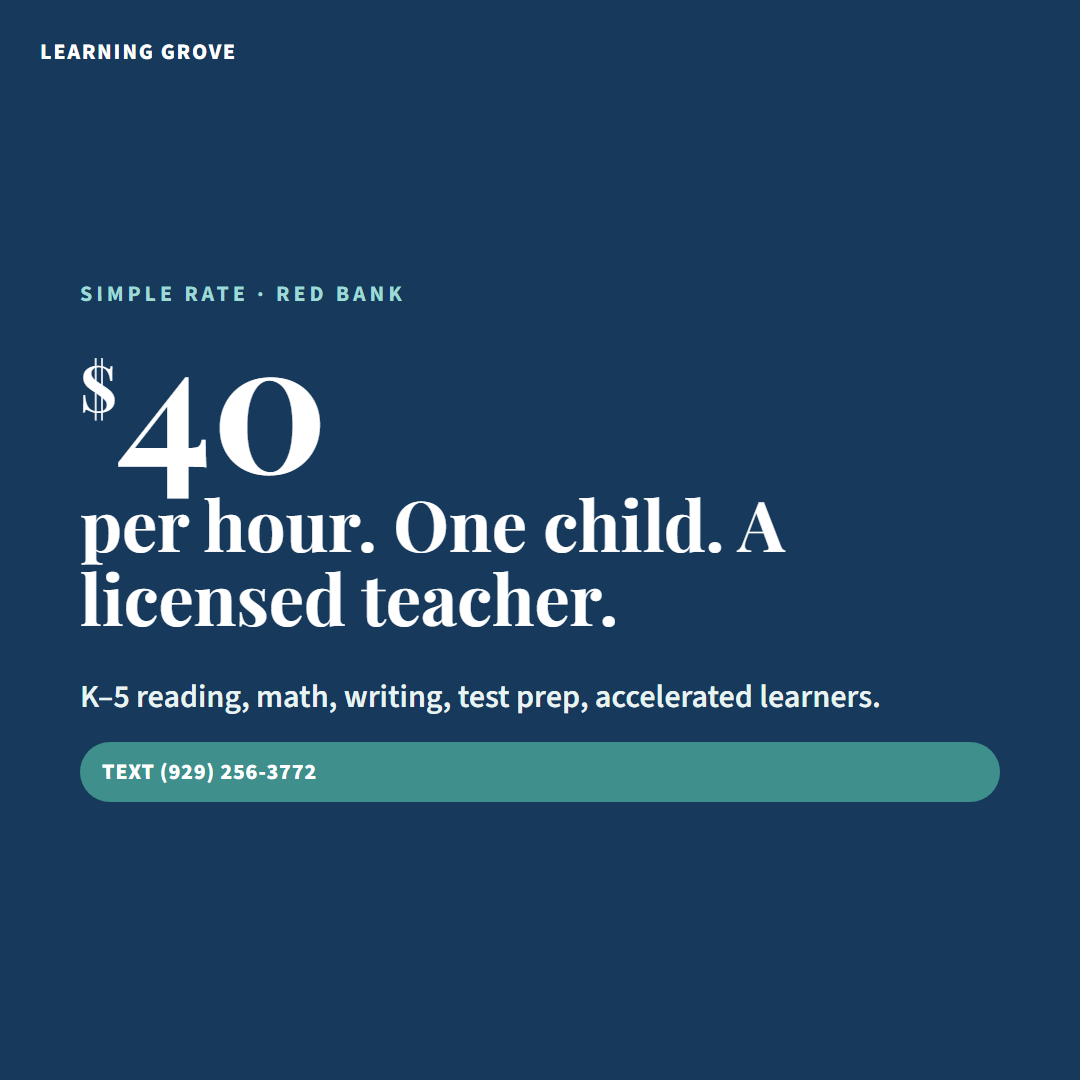
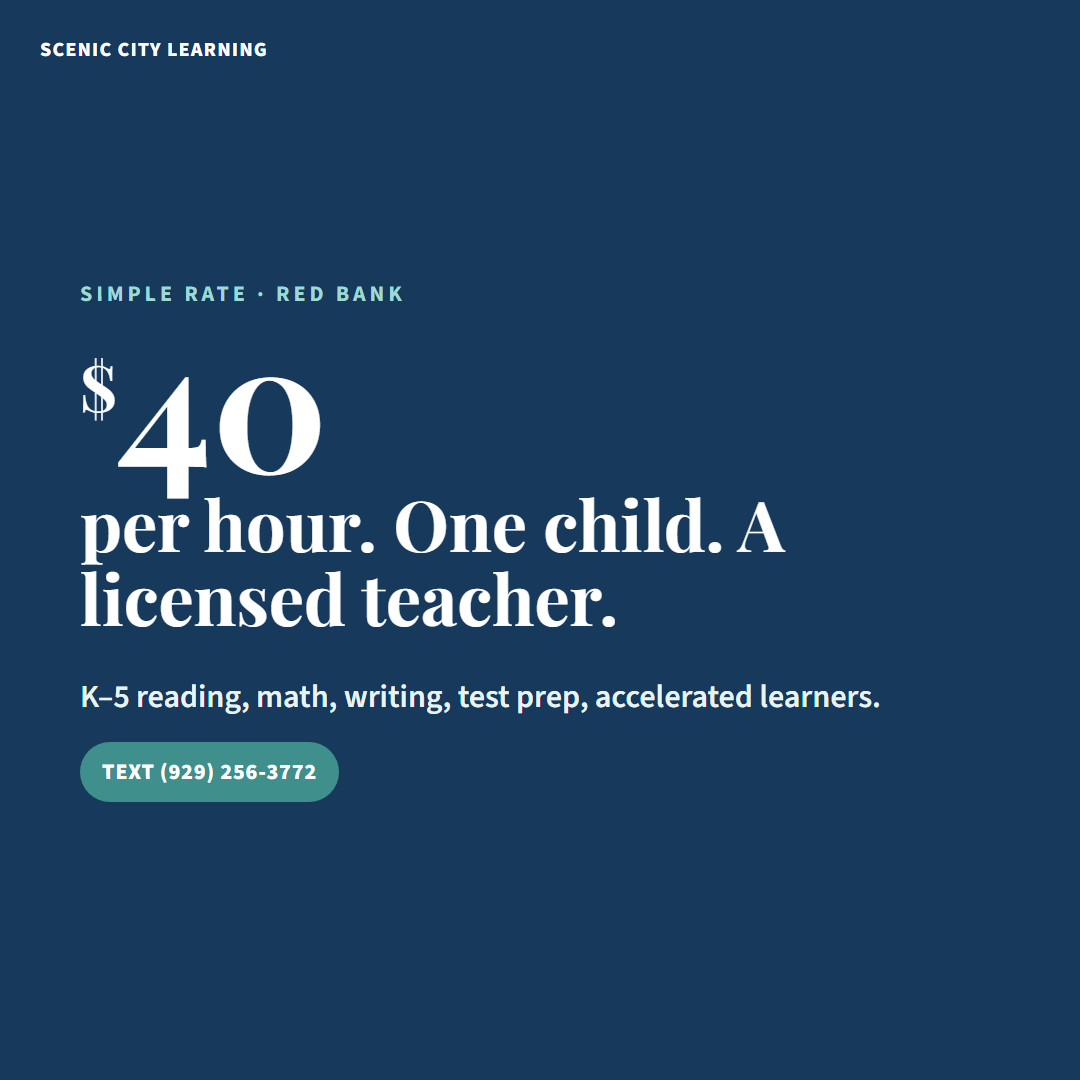
Refresh Facebook Page kit and ads for Scenic City Learning.
Recrop the cover so Mandi's face sits in Facebook's mobile safe area. Replace Learning Grove on ad images. Tighten Page copy, Messenger greeting, and ad headlines to Facebook character limits.

Changed region(s): [[0.3056, 0.6722, 0.9472, 0.7639], [0.0306, 0.0306, 0.2444, 0.0611]]

diff --git a/facebook/index.html b/facebook/index.html
@@ -60,21 +60,22 @@
       <div class="preview-body">
         <img class="avatar" src="profile-photo.jpg" alt="Scenic City Learning profile photo" />
         <p class="pagename">Scenic City Learning</p>
-        <p class="cat">Tutor · Education · Red Bank, Tennessee</p>
-        <button class="cta" type="button">Call now</button>
-        <p>K–5 learning coaching in Red Bank. Reading, math, writing, homework, test prep, and accelerated students. $40/hour. Sessions at Mandi’s home.</p>
+        <p class="cat">Private tutor · Red Bank, Tennessee</p>
+        <button class="cta" type="button">Send message</button>
+        <p>K–5 coaching in Red Bank with Mandi Thurmond, M.Ed. Reading, math, writing, homework, test prep, and accelerated students. $40/hour at Mandi’s house.</p>
       </div>
     </div>
 
     <h2>1. Create the Page</h2>
     <ol>
-      <li>Open <a href="https://www.facebook.com/pages/create" target="_blank" rel="noopener">facebook.com/pages/create</a> while signed in as Mandi.</li>
-      <li>Choose <strong>Business or brand</strong> (or “Page”).</li>
-      <li>Paste the name, category, and bio below.</li>
-      <li>Upload <strong>profile-photo.jpg</strong> and <strong>cover-photo.jpg</strong> from this folder.</li>
-      <li>Add phone, email, website, and city. Turn on messaging.</li>
-      <li>Set the action button to <strong>Call now</strong> or <strong>Send message</strong>.</li>
-      <li>Publish the first three posts from the list at the bottom.</li>
+      <li>Open <a href="https://www.facebook.com/pages/create" target="_blank" rel="noopener">facebook.com/pages/create</a> while signed in as Mandi (not Davis).</li>
+      <li>Choose <strong>Business or brand</strong>.</li>
+      <li>Paste the Page name, then category <strong>Private tutor</strong> (search “tutor” if you don’t see it).</li>
+      <li>Paste the short bio.</li>
+      <li>Upload <strong>profile-photo.jpg</strong> (circle) and <strong>cover-photo.jpg</strong> (banner).</li>
+      <li>Add phone, email, website, and city from the contact block. Turn on messaging.</li>
+      <li>Action button: <strong>Send message</strong> (this is what the ads use). Add Call as a second action if Facebook offers it.</li>
+      <li>Paste the Messenger greeting. Publish the first three posts. Pin post 1.</li>
     </ol>
 
     <h2>Page name <button class="copy" data-copy="name">Copy</button></h2>
@@ -85,12 +86,11 @@
     <p>This becomes facebook.com/ScenicCityLearning if it is available. Fallbacks: ScenicCityK5 or ScenicCityTN.</p>
 
     <h2>Category</h2>
-    <div class="block">Tutor
-Education
-Private Tutor</div>
+    <div class="block" id="cat">Private tutor</div>
+    <p>If Facebook asks for more: Education, Tutor.</p>
 
-    <h2>Short bio (About / intro) <button class="copy" data-copy="bio">Copy</button></h2>
-    <div class="block" id="bio">Scenic City Learning — K–5 coaching in Red Bank with Mandi Thurmond, M.Ed. Reading, math, writing, homework, test prep, and work with accelerated students. $40/hour. Sessions at Mandi’s home.</div>
+    <h2>Short bio (About / intro — stays under Facebook’s 255-character limit) <button class="copy" data-copy="bio">Copy</button></h2>
+    <div class="block" id="bio">K–5 coaching in Red Bank with Mandi Thurmond, M.Ed. Licensed teacher, 18 years. Reading, math, writing, homework, test prep, and accelerated students. $40/hour at my house.</div>
 
     <h2>Long description <button class="copy" data-copy="long">Copy</button></h2>
     <div class="block" id="long">Scenic City Learning is one-on-one K–5 learning coaching in Red Bank and greater Chattanooga.
@@ -111,19 +111,23 @@ $40 per hour. Personalized support. Lifelong confidence.
 
 Every child can learn. My job is to help them believe it.
 
-sceniccitylearning.com
+https://sceniccitylearning.com
 Call or text (929) 256-3772 (Google Voice)
 orangemandimack@yahoo.com</div>
 
     <h2>Contact details to enter</h2>
-    <div class="block">Phone: (929) 256-3772
+    <div class="block" id="contact">Phone: (929) 256-3772
 Email: orangemandimack@yahoo.com
 Website: https://sceniccitylearning.com
 City: Red Bank, Tennessee
-Service area: Red Bank, Chattanooga, Hamilton County
-Hours: By appointment
+Service area: Red Bank and greater Chattanooga
+Hours: Evenings and weekends by appointment
 Price range: $
-Action button: Call now</div>
+Action button: Send message</div>
+
+    <h2>Messenger greeting <button class="copy" data-copy="greet">Copy</button></h2>
+    <div class="block" id="greet">Hi — this is Mandi at Scenic City Learning. Tell me your child’s grade and what they need help with. I’ll reply about a $40 hour at my house in Red Bank.</div>
+    <p>Turn on messaging. Do not publish the street address on the Page.</p>
 
     <h2>First posts — paste these in order</h2>
     <div class="posts">
@@ -131,28 +135,26 @@ Action button: Call now</div>
         <h3>Post 1 — we’re open <button class="copy" data-copy="p1">Copy</button></h3>
         <div class="block" id="p1">Scenic City Learning is open.
 
-Helping students learn. Grow. Succeed.
-
-I’m Mandi Thurmond, M.Ed. — a licensed teacher with 18 years in the classroom — and I’m coaching K–5 students one-on-one here in the Red Bank / Chattanooga area.
+I’m Mandi Thurmond, M.Ed. — a licensed teacher with 18 years in elementary classrooms — and I’m coaching K–5 students one-on-one in Red Bank.
 
 Reading • Math • Writing • Homework help • Test prep • Accelerated students
-$40/hour
-Sessions at my home in Red Bank
+$40/hour at my house (address when we book)
 
 Every child can learn. My job is to help them believe it.
 
-sceniccitylearning.com
-Call or text (929) 256-3772 to book a session.</div>
+https://sceniccitylearning.com
+Call or text (929) 256-3772 to book.</div>
       </article>
       <article class="post">
         <h3>Post 2 — why one-on-one <button class="copy" data-copy="p2">Copy</button></h3>
         <div class="block" id="p2">A struggling reader doesn’t need more worksheets. They need a plan that fits them.
 
-That’s what one-on-one learning coaching is: a licensed teacher sitting beside your child, noticing what clicks, and building from there.
+That’s one-on-one coaching: a licensed teacher beside your child, noticing what clicks, and building from there.
 
-I work with grades K–5 on reading, math, writing, study skills, and test prep.
+I work with grades K–5 on reading, math, writing, homework, test prep — and stretch work if they’re already ahead.
 
-If you’ve been wondering whether extra support would help, send a message. First conversation is easy.</div>
+Send a message or text (929) 256-3772. First conversation is easy.
+https://sceniccitylearning.com</div>
       </article>
       <article class="post">
         <h3>Post 3 — about Scenic City Learning <button class="copy" data-copy="p3">Copy</button></h3>
@@ -168,7 +170,7 @@ Intervention &amp; tutoring teacher
 I’ve spent my career helping elementary students find their footing — and their confidence. Now that work lives at Scenic City Learning, serving families in Red Bank and greater Chattanooga.
 
 $40/hour · grades K–5
-sceniccitylearning.com
+https://sceniccitylearning.com
 (929) 256-3772</div>
       </article>
       <article class="post">
@@ -179,7 +181,7 @@ After a page, ask “What just happened?” — not a quiz, just a conversation.
 
 If retelling feels hard, that’s useful information, not a verdict. Fluency and comprehension are skills we can coach.
 
-K–5 reading support · $40/hour · sceniccitylearning.com</div>
+K–5 reading support · $40/hour · https://sceniccitylearning.com</div>
       </article>
       <article class="post">
         <h3>Post 5 — how to book <button class="copy" data-copy="p5">Copy</button></h3>
@@ -190,7 +192,7 @@ K–5 reading support · $40/hour · sceniccitylearning.com</div>
 3. Come to my house in Red Bank (address when we book)
 4. We begin
 
-sceniccitylearning.com
+https://sceniccitylearning.com
 orangemandimack@yahoo.com
 Red Bank &amp; greater Chattanooga
 $40 per hour</div>

diff --git a/ads/facebook-ads.html b/ads/facebook-ads.html
@@ -95,9 +95,10 @@ I’m Mandi Thurmond, M.Ed. — licensed teacher, 18 years in elementary classro
 $40/hour. Address when you book.
 
 Text (929) 256-3772
+https://sceniccitylearning.com
 
 Headline: Homework still going at 8?
-Description: Licensed K–5 teacher in Red Bank. $40/hour.
+Description: Licensed K–5 teacher · $40/hr
 CTA: Send message</div>
 
     <h3>Ad 2 · Licensed teacher <button class="btn" data-id="a2">Copy</button></h3>
@@ -109,9 +110,10 @@ Scenic City Learning is Mandi Thurmond, M.Ed. — licensed teacher, former liter
 Catch-up, stuck, or already ahead. $40/hour. At my house.
 
 Text (929) 256-3772 and tell me the grade.
+https://sceniccitylearning.com
 
-Headline: A licensed teacher. $40/hour.
-Description: K–5 coaching in Red Bank. One child. One hour.
+Headline: Licensed teacher. $40/hour.
+Description: One child. One hour. Red Bank
 CTA: Call now</div>
 
     <h3>Ad 3 · Accelerated <button class="btn" data-id="a3">Copy</button></h3>
@@ -123,9 +125,10 @@ Accelerated K–5 students still need a teacher, just a harder one. Deeper readi
 Scenic City Learning. Mandi Thurmond, M.Ed. $40/hour. Red Bank house.
 
 Text (929) 256-3772
+https://sceniccitylearning.com
 
 Headline: Already ahead? Let’s stretch.
-Description: Enrichment for K–5. $40/hour in Red Bank.
+Description: K–5 enrichment · $40/hour
 CTA: Send message</div>
 
     <h3>Ad 4 · Price <button class="btn" data-id="a4">Copy</button></h3>
@@ -135,15 +138,18 @@ $40 an hour. A licensed teacher. Your child only.
 No packages. No franchise. Scenic City Learning in Red Bank — K–5 reading, math, writing, test prep, and accelerated learners.
 
 Text (929) 256-3772 to book the first hour.
+https://sceniccitylearning.com
 
-Headline: $40/hour · Red Bank
-Description: One-on-one K–5. Address when you book.
+Headline: $40/hour in Red Bank
+Description: One-on-one K–5. Text to book.
 CTA: Call now</div>
 
     <h3>Ad 5 · Story / Reels (keep caption short) <button class="btn" data-id="a5">Copy</button></h3>
     <div class="copy" id="a5">When homework turns into a fight.
 
-Licensed K–5 teacher in Red Bank. $40/hour. Text (929) 256-3772.</div>
+Licensed K–5 teacher in Red Bank. $40/hour.
+Text (929) 256-3772
+https://sceniccitylearning.com</div>
 
     <h2>4. Click-by-click</h2>
     <ol>

diff --git a/kit.html b/kit.html
@@ -40,26 +40,11 @@
       Call/text <a href="tel:+19292563772">(929) 256-3772</a> · <a href="mailto:orangemandimack@yahoo.com">orangemandimack@yahoo.com</a></p>
     </div>
 
-    <h2>0. Point the domains (Davis — do this in Porkbun now)</h2>
+    <h2>1. Website (live)</h2>
     <div class="card">
-      <p>Both names are purchased. Open <a href="https://porkbun.com/account/domainsSpeedy">Porkbun Domain Management</a>.</p>
-      <p><strong>sceniccitylearning.com</strong> — Details → DNS Records. Delete anything pointing at <code>pixie.porkbun.com</code>. Then add:</p>
-      <ul>
-        <li>A, host blank, <code>185.199.108.153</code></li>
-        <li>A, host blank, <code>185.199.109.153</code></li>
-        <li>A, host blank, <code>185.199.110.153</code></li>
-        <li>A, host blank, <code>185.199.111.153</code></li>
-        <li>CNAME, host <code>www</code>, answer <code>daviswright-hash.github.io</code></li>
-      </ul>
-      <p><strong>chattanoogalearning.com</strong> — Details → URL Forwarding. Hostname blank. Forward to <code>https://sceniccitylearning.com</code>. Toggle advanced: Permanent (301). Wildcard on. Include path on. If Porkbun errors, delete pixie records first.</p>
-      <p>If a “Link in Bio” / l.ink hosting trial is on, cancel it so it does not steal the domain.</p>
-    </div>
-
-    <h2>1. Website</h2>
-    <div class="card">
-      <p><strong>https://sceniccitylearning.com</strong> (after DNS, usually minutes to a few hours)</p>
-      <p>Backup until then: <a href="./">https://daviswright-hash.github.io/mandi-learning-coach/</a></p>
-      <p><strong>https://chattanoogalearning.com</strong> redirects to Scenic City Learning.</p>
+      <p><a href="https://sceniccitylearning.com">https://sceniccitylearning.com</a></p>
+      <p>Also: <a href="https://chattanoogalearning.com">https://chattanoogalearning.com</a> redirects here.</p>
+      <p>Share this link anywhere. Street address is not on the site — you send it when they book.</p>
     </div>
 
     <h2>2. Facebook Page (you create this while logged in)</h2>

diff --git a/ads/creatives/ad.css b/ads/creatives/ad.css
@@ -16,7 +16,7 @@ h1 { font-family: "Playfair Display", Georgia, serif; font-size: 64px; line-heig
   font-weight: 800; letter-spacing: .04em; text-transform: uppercase;
   padding: 14px 22px; border-radius: 999px; font-size: 22px;
 }
-.logo { position: absolute; top: 36px; left: 40px; color: #fff; font-weight: 800; letter-spacing: .08em; text-transform: uppercase; font-size: 22px; }
+.logo { position: absolute; top: 36px; left: 40px; color: #fff; font-weight: 800; letter-spacing: .06em; text-transform: uppercase; font-size: 20px; }
 .price {
   position: absolute; top: 28px; right: 28px; background: #3f8f8c; color: #fff;
   border-radius: 18px; padding: 14px 18px; text-align: center; font-weight: 800;

diff --git a/ads/index.html b/ads/index.html
@@ -169,7 +169,7 @@ Chattanooga Area K–5
 Text to Book a Session
 Quiet House. Real Teacher.
 Elementary Learning Coach
-Red Bank Scenic City Learning
+Scenic City · Red Bank
 First Hour Is $40
 Call (929) 256-3772
 
